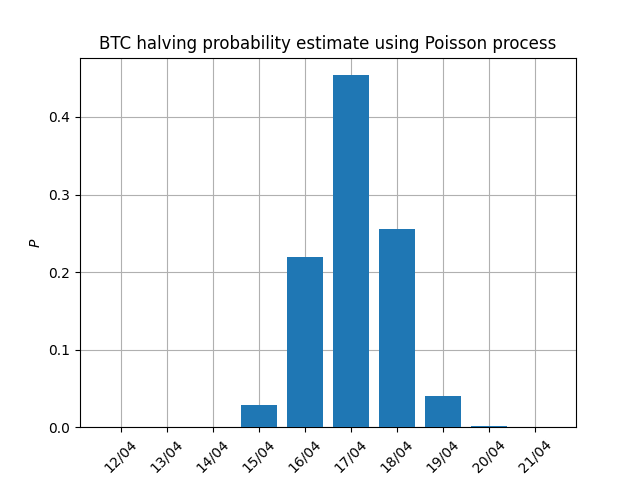
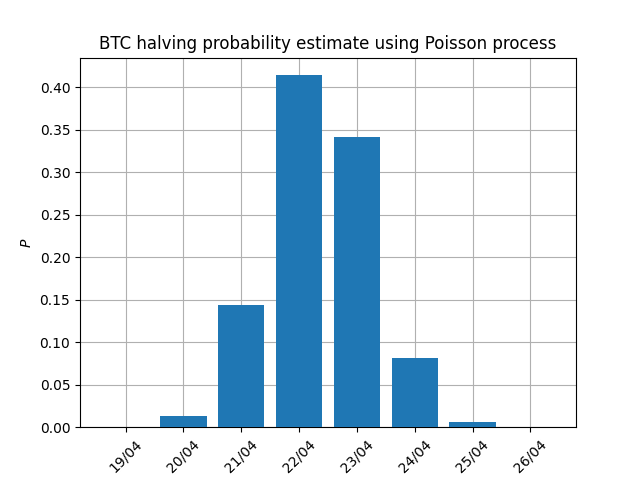
Data refresh and hourly data as well

diff --git a/poisson_hourly.py b/poisson_hourly.py
@@ -43,9 +43,9 @@ while dt < estimate_stop:
     t += 1
     p = poipmf(r, t, k)
     daily_p += p
-    if dtt.day != dt.day:
+    if dtt.hour != dt.hour:
         probs.append(daily_p)
-        dates.append(dt.strftime('%d/%m'))
+        dates.append(dt.strftime('%d/%m %H:%M'))
         tot_p += daily_p
         daily_p = 0.0
     dt = dtt
@@ -58,10 +58,12 @@ for j in range(len(probs)):
 for p, d in zip(probs, dates):
     print(d, p)
 
+nb_x = 3
+
 # plot
 bar_plot(
     dates, probs,
     ylabel='$P$',
     xlabel='date',
-    title='BTC halving probability estimate using Poisson process',
-    filename='res.png')
+    title='BTC halving hourly probability estimate using Poisson process',
+    filename='res_hourly.png', every_nth_label=4, figsize=(6.4*nb_x, 4.8), bottom=0.2)

diff --git a/README.md b/README.md
@@ -1,6 +1,10 @@
 # Bitcoin Halving Estimator
 
-Required data:
+## ⚠ DISCLAIMER ⚠
+
+THIS SCRIPT COMES WITH ABSOLUTELY NO GUARANTEE OF CORRECTNESS AND BY USING IT OR DATA IT PROVIDES YOU AGREE TO TAKE FULL RESPONSIBILITY OF ALL THE DECISIONS MADE.
+
+## Input data
 
 1. Most recent block timestamp
 2. Average block time
@@ -33,3 +37,7 @@ last block mined 2024-01-05 12:02:08
 and bar plot
 
 ![bar_plot](https://github.com/Blockfinance-ECO/bitcoin-halving-estimator/blob/master/res.png?raw=true)
+
+as well as hourly estimate
+
+![bar_plot_hourly](https://github.com/Blockfinance-ECO/bitcoin-halving-estimator/blob/master/res_hourly.png?raw=true)
